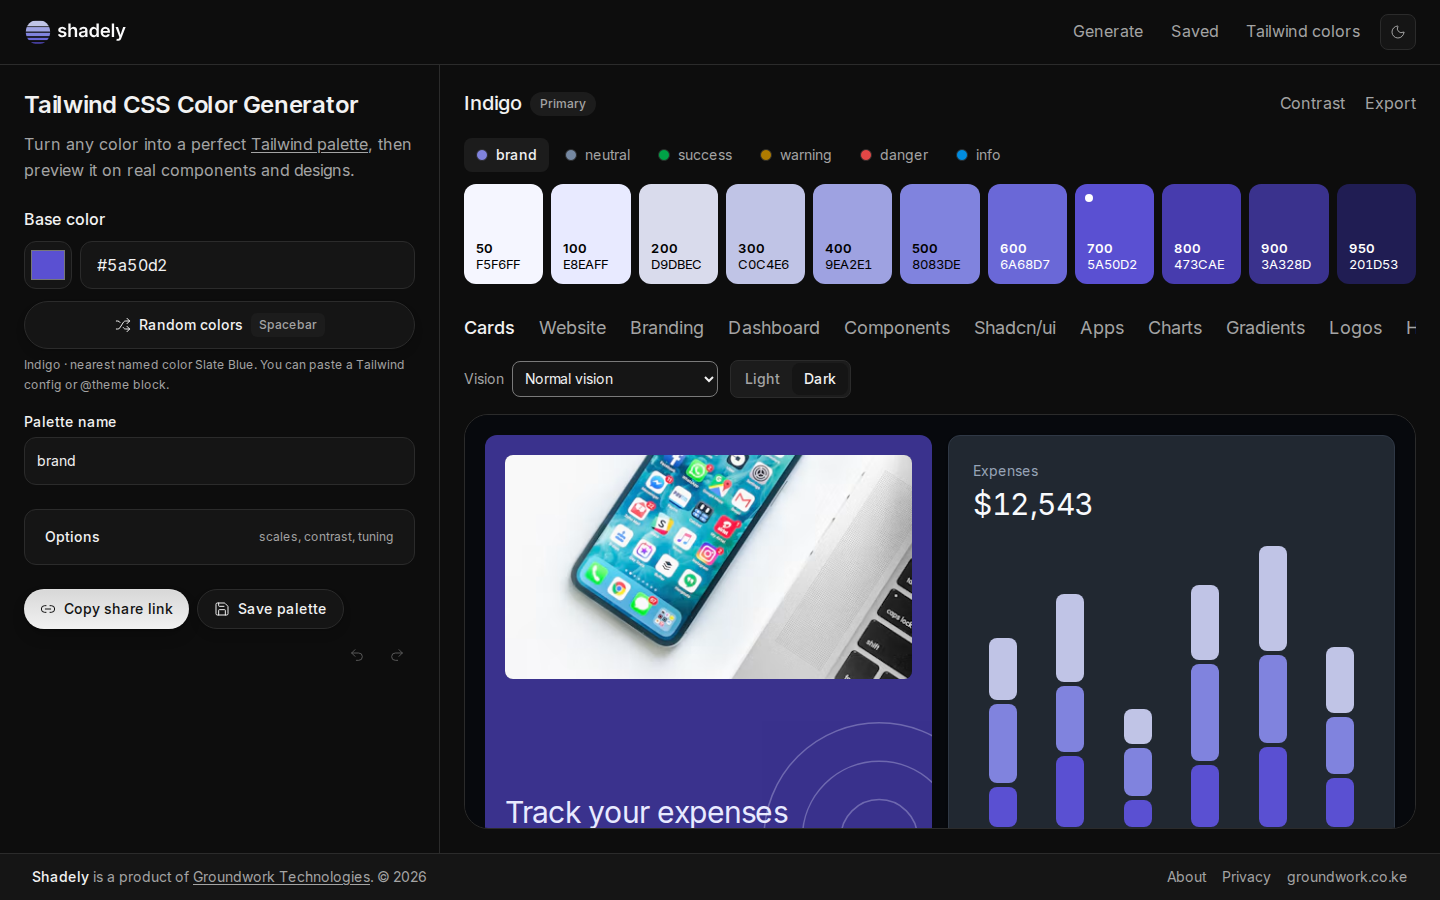
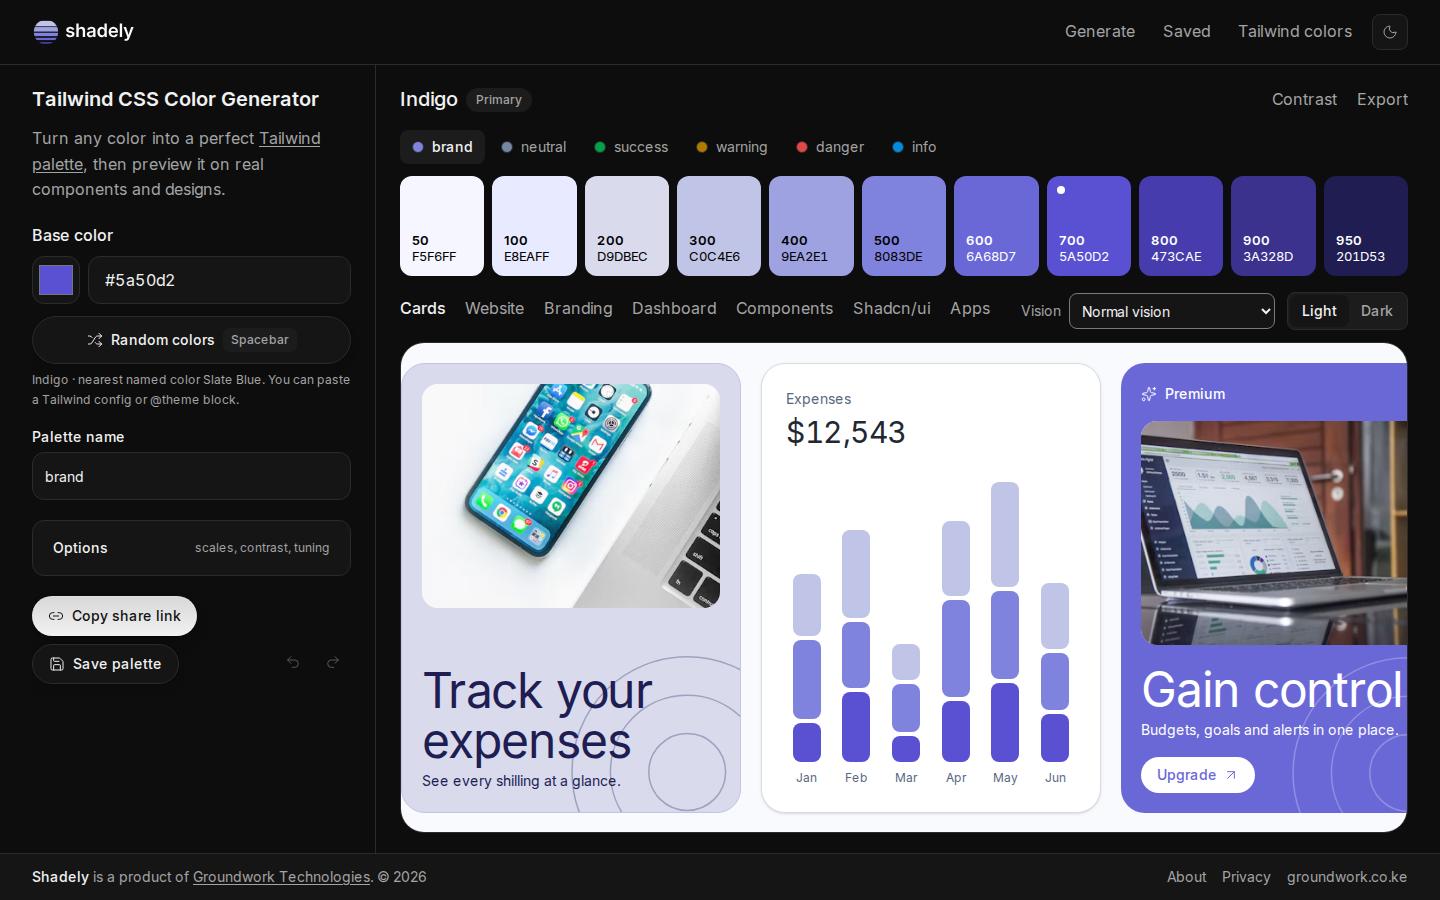
README refresh

diff --git a/README.md b/README.md
@@ -2,10 +2,8 @@
 
 <picture>
   <source media="(prefers-color-scheme: dark)" srcset="public/brand/shadely-logo-dark.svg">
-  <img src="public/brand/shadely-logo.svg" alt="Shadely" height="72">
+  <img src="public/brand/shadely-logo.svg" alt="Shadely" height="64">
 </picture>
-
-<br><br>
 
 **Turn any color into a perfect Tailwind palette, then preview it on real components and designs.**
 
@@ -77,35 +75,7 @@ Picking one brand color is easy. Turning it into eleven shades that look even, p
 
 ### Preview on real designs
 
-Cards, website, branding, dashboard, components, shadcn/ui, apps, charts, gradients, logos and headings. Each page is built from your palette and switches between light and dark.
-
-<table>
-<tr>
-<td width="33%"><img src="docs/images/preview-website.png" alt="A landing page themed with the generated palette"></td>
-<td width="33%"><img src="docs/images/preview-dashboard.png" alt="A dashboard themed with the generated palette"></td>
-<td width="33%"><img src="docs/images/preview-shadcn.png" alt="shadcn/ui components themed with the generated palette"></td>
-</tr>
-<tr>
-<td align="center"><sub>Website</sub></td>
-<td align="center"><sub>Dashboard</sub></td>
-<td align="center"><sub>shadcn/ui</sub></td>
-</tr>
-</table>
-
-### Contrast and export on demand
-
-Contrast and export stay out of the way until you ask for them.
-
-<table>
-<tr>
-<td width="50%"><img src="docs/images/contrast.png" alt="The contrast dialog with best text per shade and the pairing matrix"></td>
-<td width="50%"><img src="docs/images/export.png" alt="The export dialog showing a Tailwind v4 theme block"></td>
-</tr>
-<tr>
-<td align="center"><sub>Contrast: best text per shade, plus the pairing matrix</sub></td>
-<td align="center"><sub>Export: pick a format, copy, download, or get everything as a ZIP</sub></td>
-</tr>
-</table>
+Cards, website, branding, dashboard, components, shadcn/ui, apps, charts, gradients, logos and headings. Each page is built from your palette and switches between light and dark. Contrast and export stay out of the way until you ask for them.
 
 ## How it works
 
